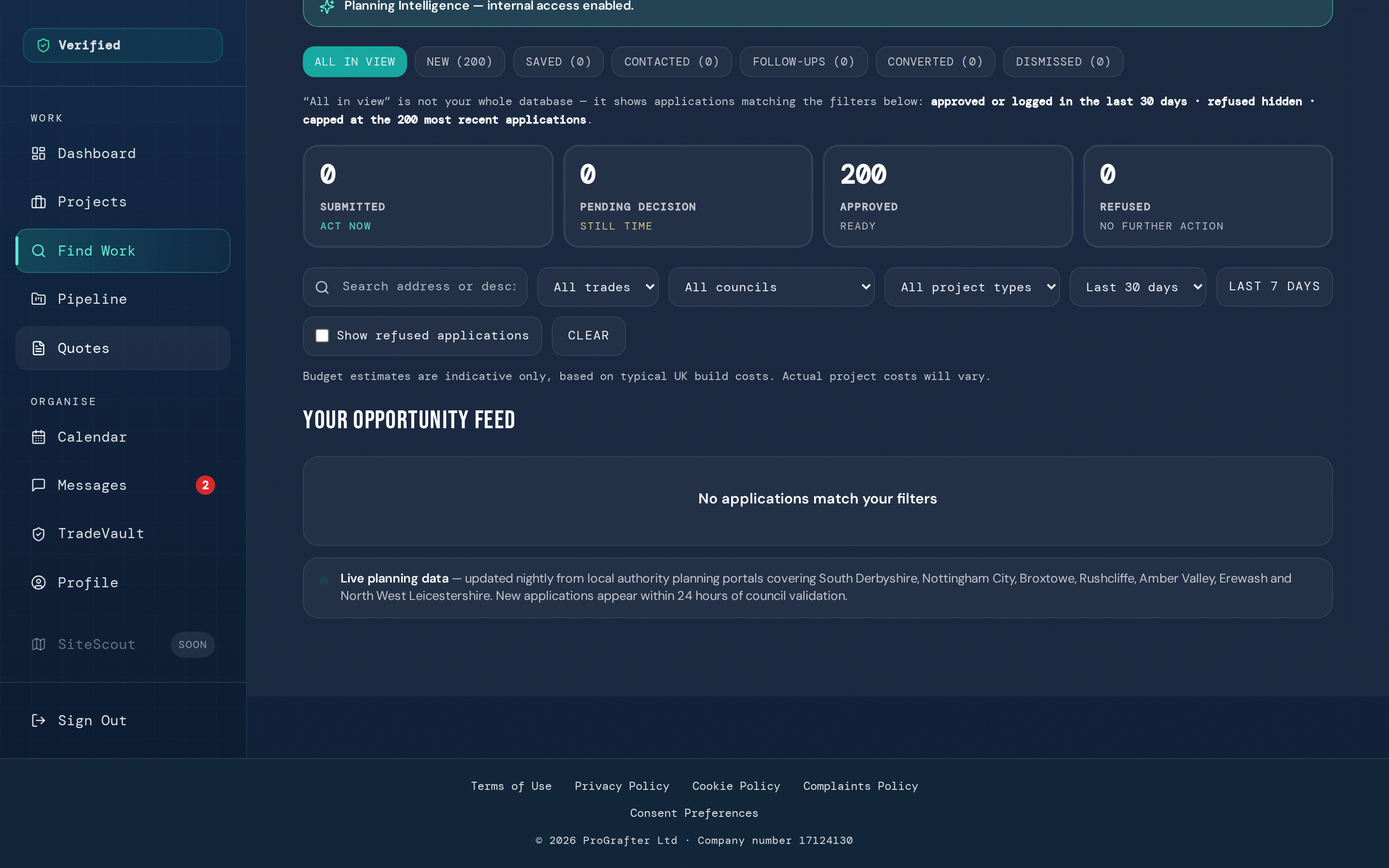
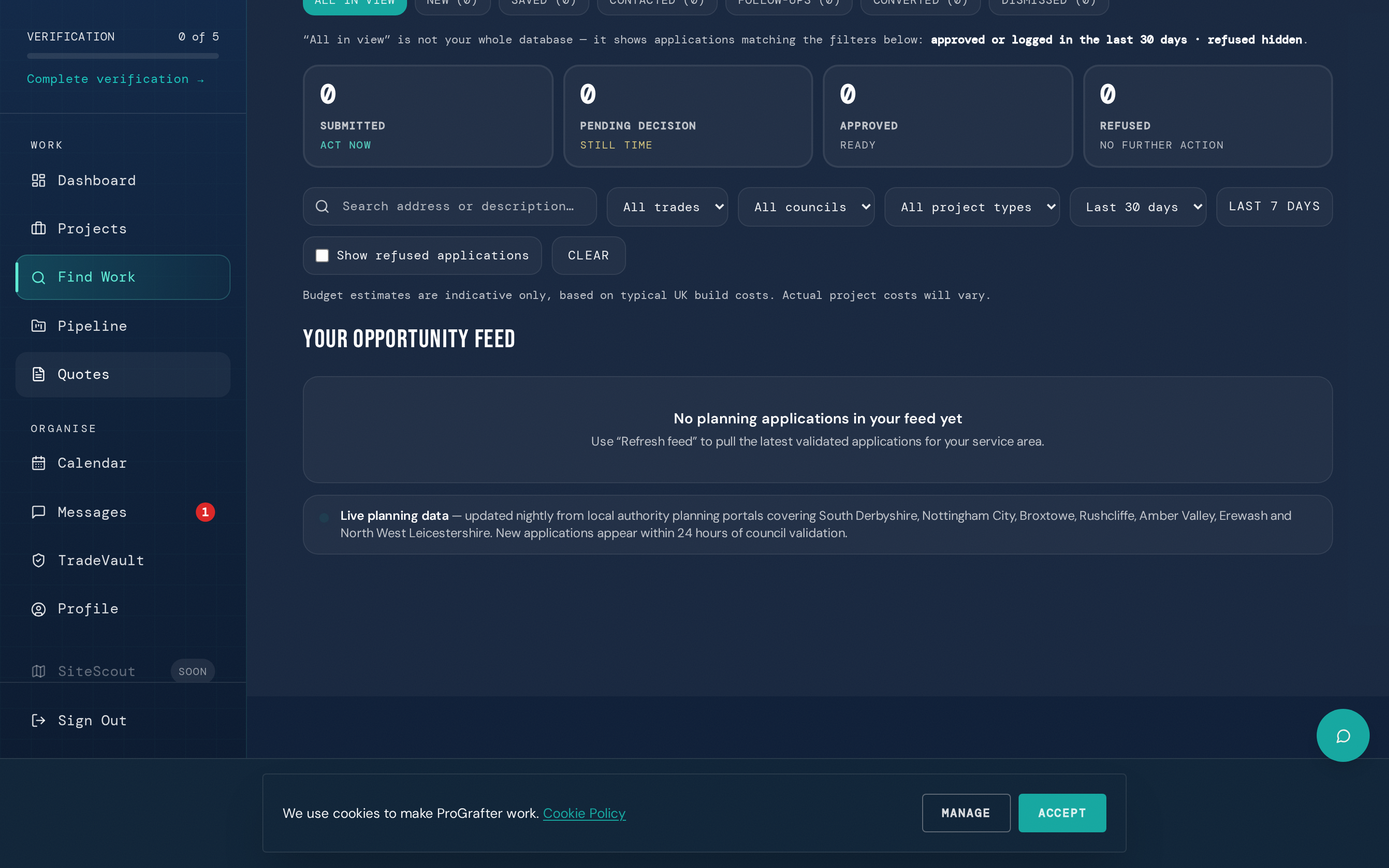
Changes

diff --git a/.shots/fw.py b/.shots/fw.py
@@ -1,0 +1,24 @@
+import asyncio, json
+from playwright.async_api import async_playwright
+S=json.load(open("/root/.cache/lovable-auth/session.json"));KEY=S["storage_key"];SESS=S.get("session") or S
+async def main():
+    async with async_playwright() as p:
+        b=await p.chromium.launch(headless=True)
+        ctx=await b.new_context(viewport={"width":1440,"height":900},device_scale_factor=2)
+        pg=await ctx.new_page()
+        await pg.goto("http://localhost:8080",wait_until="domcontentloaded")
+        await pg.evaluate(f"localStorage.setItem({json.dumps(KEY)}, {json.dumps(json.dumps(SESS))})")
+        await pg.goto("http://localhost:8080/dashboard/trade",wait_until="domcontentloaded")
+        await pg.wait_for_timeout(5000)
+        await pg.get_by_role("button",name="Find Work",exact=True).first.click()
+        await pg.wait_for_timeout(2500)
+        for lbl in ["NEW (200)","ALL IN VIEW"]:
+            try:
+                await pg.get_by_text(lbl,exact=True).first.click(timeout=2500); await pg.wait_for_timeout(2000)
+                txt=await pg.inner_text("body")
+                print(lbl,"empty" if "No applications match" in txt else "HAS RESULTS")
+            except Exception as e: print(lbl,"miss")
+        await pg.evaluate("window.scrollTo(0,380)"); await pg.wait_for_timeout(800)
+        await pg.screenshot(path="/dev-server/.shots/tr-jobs.png")
+        await b.close()
+asyncio.run(main())
